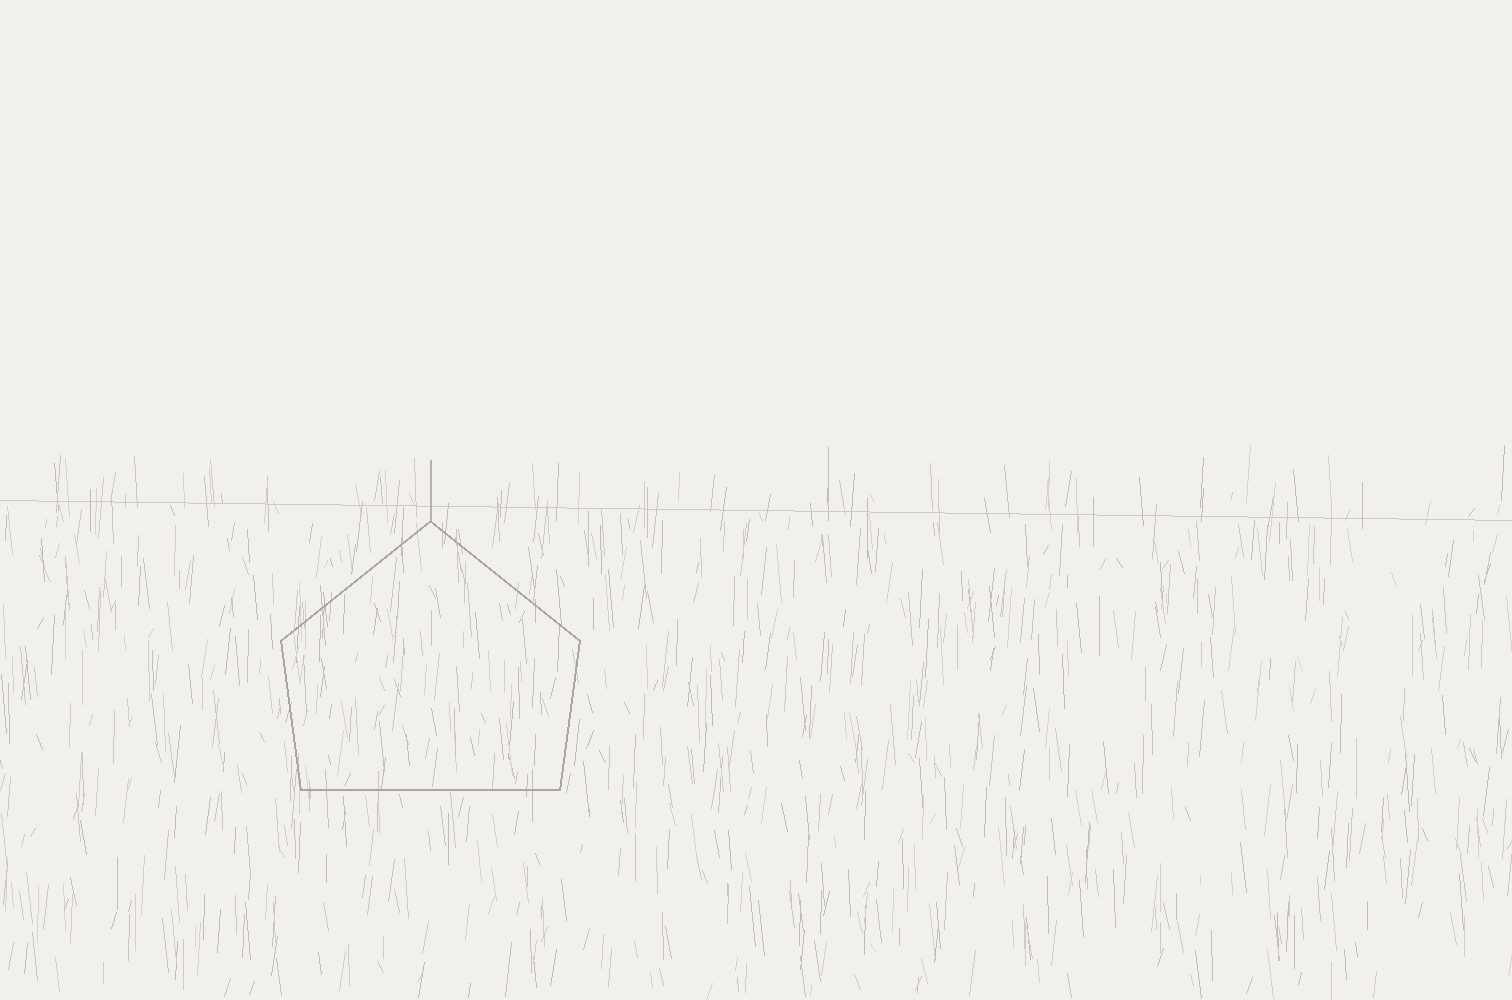
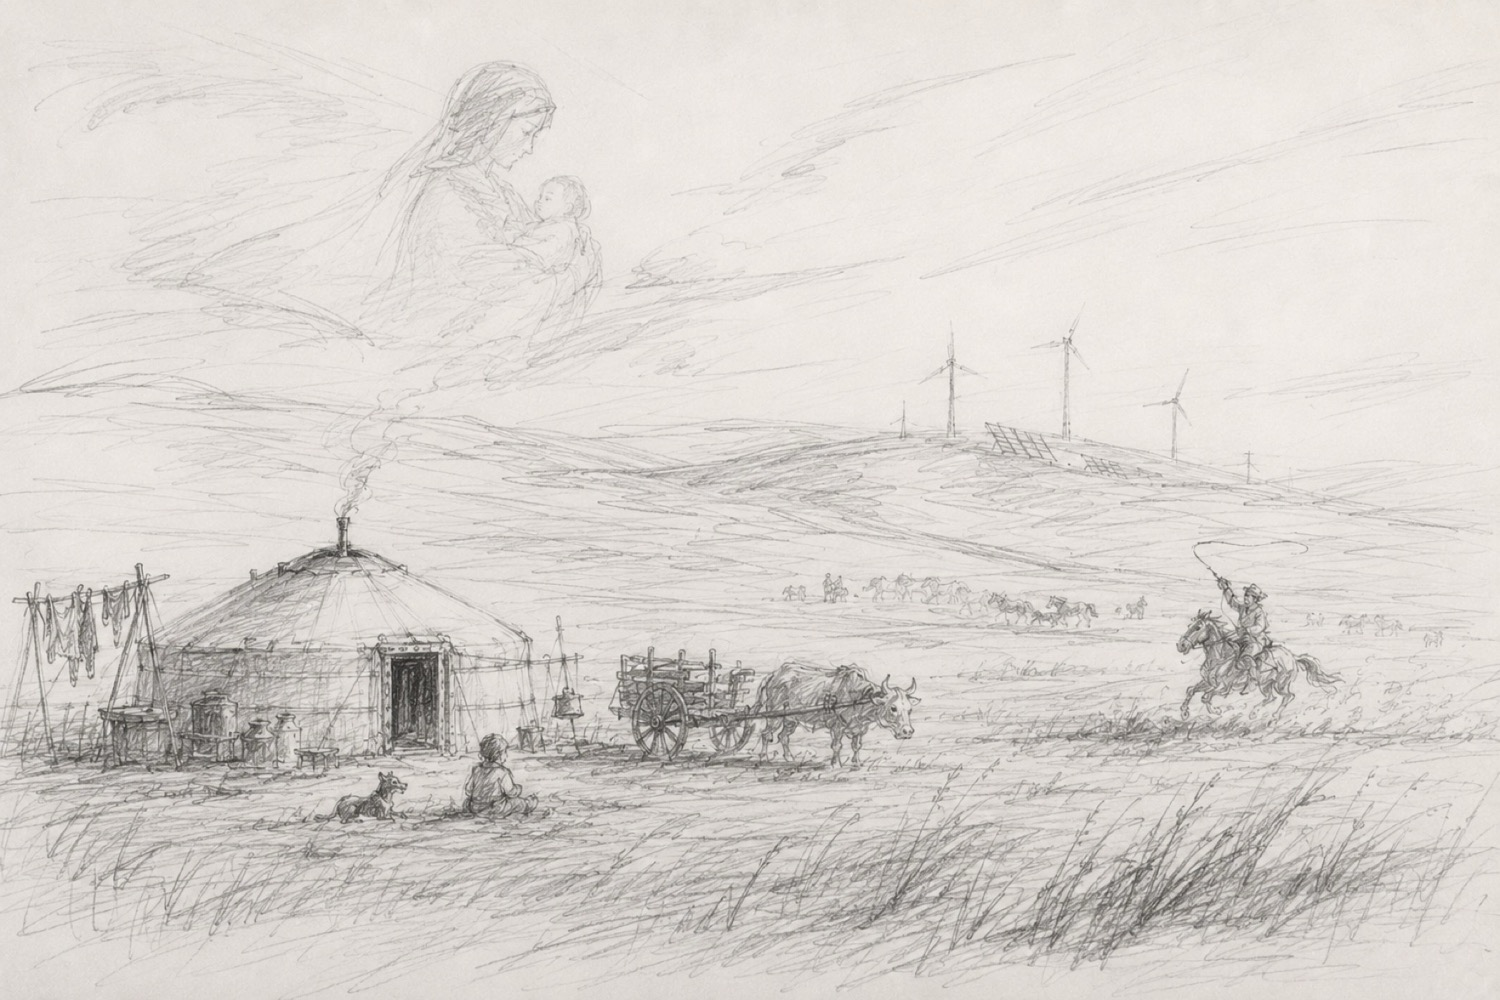
主页定稿:品牌头收进毛玻璃卡 + 真速写背景 + 居中构图
- 修毒舌总监 R1 硬伤①:标题(社团选课/市蒙古族中学)原浮在裸速写上、副标题被纸纹吞 → 整个品牌头移入毛玻璃卡,文字坐玻璃上清晰可读
- 构图:卡片居中(坐落蒙古包与套马人之间的草原空档,两侧主体都不压);评估过右移但会埋掉右侧牧人,故维持居中
- 真速写转优化 JPG(1500x1000,342KB);favicon 炊烟加粗(16px 更稳)
- 毛玻璃微调:blur 16 / 不透明 .82 / 更贴地阴影

diff --git a/app.css b/app.css
@@ -128,12 +128,12 @@ textarea.input { height: auto; padding: 11px 13px; line-height: 1.5; }
 .seg button:not(.on):hover { background: rgba(28,27,24,.035); }
 
 /* ---- 主页(登录):铅笔速写背景 + 毛玻璃卡(纸张米色与 --bg 同源,天然融合) ---- */
-body.home { min-height: 100dvh; background: linear-gradient(180deg, rgba(241,240,236,.18), rgba(241,240,236,.40) 52%, rgba(241,240,236,.66)), url("/img/home-bg.jpg") center 30% / cover no-repeat; background-color: var(--bg); }
-body.home .card { background: rgba(255,255,255,.80); -webkit-backdrop-filter: blur(14px) saturate(1.07); backdrop-filter: blur(14px) saturate(1.07); border: 1px solid rgba(255,255,255,.78); box-shadow: 0 14px 40px -16px rgba(28,27,24,.32), inset 0 1px 0 rgba(255,255,255,.6); }
-body.home .home-head { position: relative; }
-body.home .home-head::before { content: ""; position: absolute; inset: -14px -36px -8px; background: radial-gradient(58% 74% at 50% 44%, rgba(241,240,236,.85), rgba(241,240,236,0) 72%); z-index: -1; pointer-events: none; }
-body.home .foot { color: rgba(28,27,24,.5); }
-@media (min-width: 768px) { body.home .home-head img { width: 52px; height: 52px; } body.home .home-head h1 { font-size: 23px; } }
+body.home { min-height: 100dvh; background: linear-gradient(180deg, rgba(241,240,236,.16), rgba(241,240,236,.34) 50%, rgba(241,240,236,.60)), url("/img/home-bg.jpg") center 28% / cover no-repeat; background-color: var(--bg); }
+.home-main { min-height: 100dvh; display: flex; align-items: center; justify-content: center; padding: 24px; position: relative; }
+body.home .card { background: rgba(255,255,255,.82); -webkit-backdrop-filter: blur(16px) saturate(1.08); backdrop-filter: blur(16px) saturate(1.08); border: 1px solid rgba(255,255,255,.85); box-shadow: 0 18px 48px -20px rgba(28,27,24,.36), inset 0 1px 0 rgba(255,255,255,.7); }
+body.home .home-head { text-align: center; }
+body.home .foot { color: rgba(28,27,24,.52); }
+@media (min-width: 820px) { body.home .home-head img { width: 50px; height: 50px; } body.home .home-head h1 { font-size: 22px; } }
 .seg.fit button { flex: none; }
 .seg button.on { background: var(--surface); color: var(--ink); box-shadow: inset 0 0 0 1px rgba(28,27,24,.09), 0 1px 1px rgba(28,27,24,.05); }
 

diff --git a/login.html b/login.html
@@ -9,14 +9,14 @@
 <link rel="stylesheet" href="/app.css">
 </head>
 <body class="home">
-<main style="min-height:100dvh;display:flex;align-items:center;justify-content:center;padding:24px;position:relative">
+<main class="home-main">
   <div style="width:100%;max-width:380px">
-    <div class="home-head" style="text-align:center;margin-bottom:22px">
-      <img src="/favicon.svg" width="46" height="46" alt="" style="border-radius:11px">
-      <h1 style="font-size:21px;color:var(--ink);margin-top:12px;font-weight:600">社团选课</h1>
-      <p class="mono" style="color:var(--muted);font-size:12px;margin-top:3px;letter-spacing:1.5px">市蒙古族中学</p>
-    </div>
     <div class="card">
+      <div class="home-head" style="text-align:center;margin-bottom:20px">
+        <img src="/favicon.svg" width="46" height="46" alt="" style="border-radius:11px">
+        <h1 style="font-size:21px;color:var(--ink);margin-top:10px;font-weight:600">社团选课</h1>
+        <p class="mono" style="color:var(--muted);font-size:12px;margin-top:3px;letter-spacing:1.4px">市蒙古族中学</p>
+      </div>
       <div class="seg" id="seg">
         <button class="on" data-type="student" type="button">学生登录</button>
         <button data-type="admin" type="button">管理员</button>